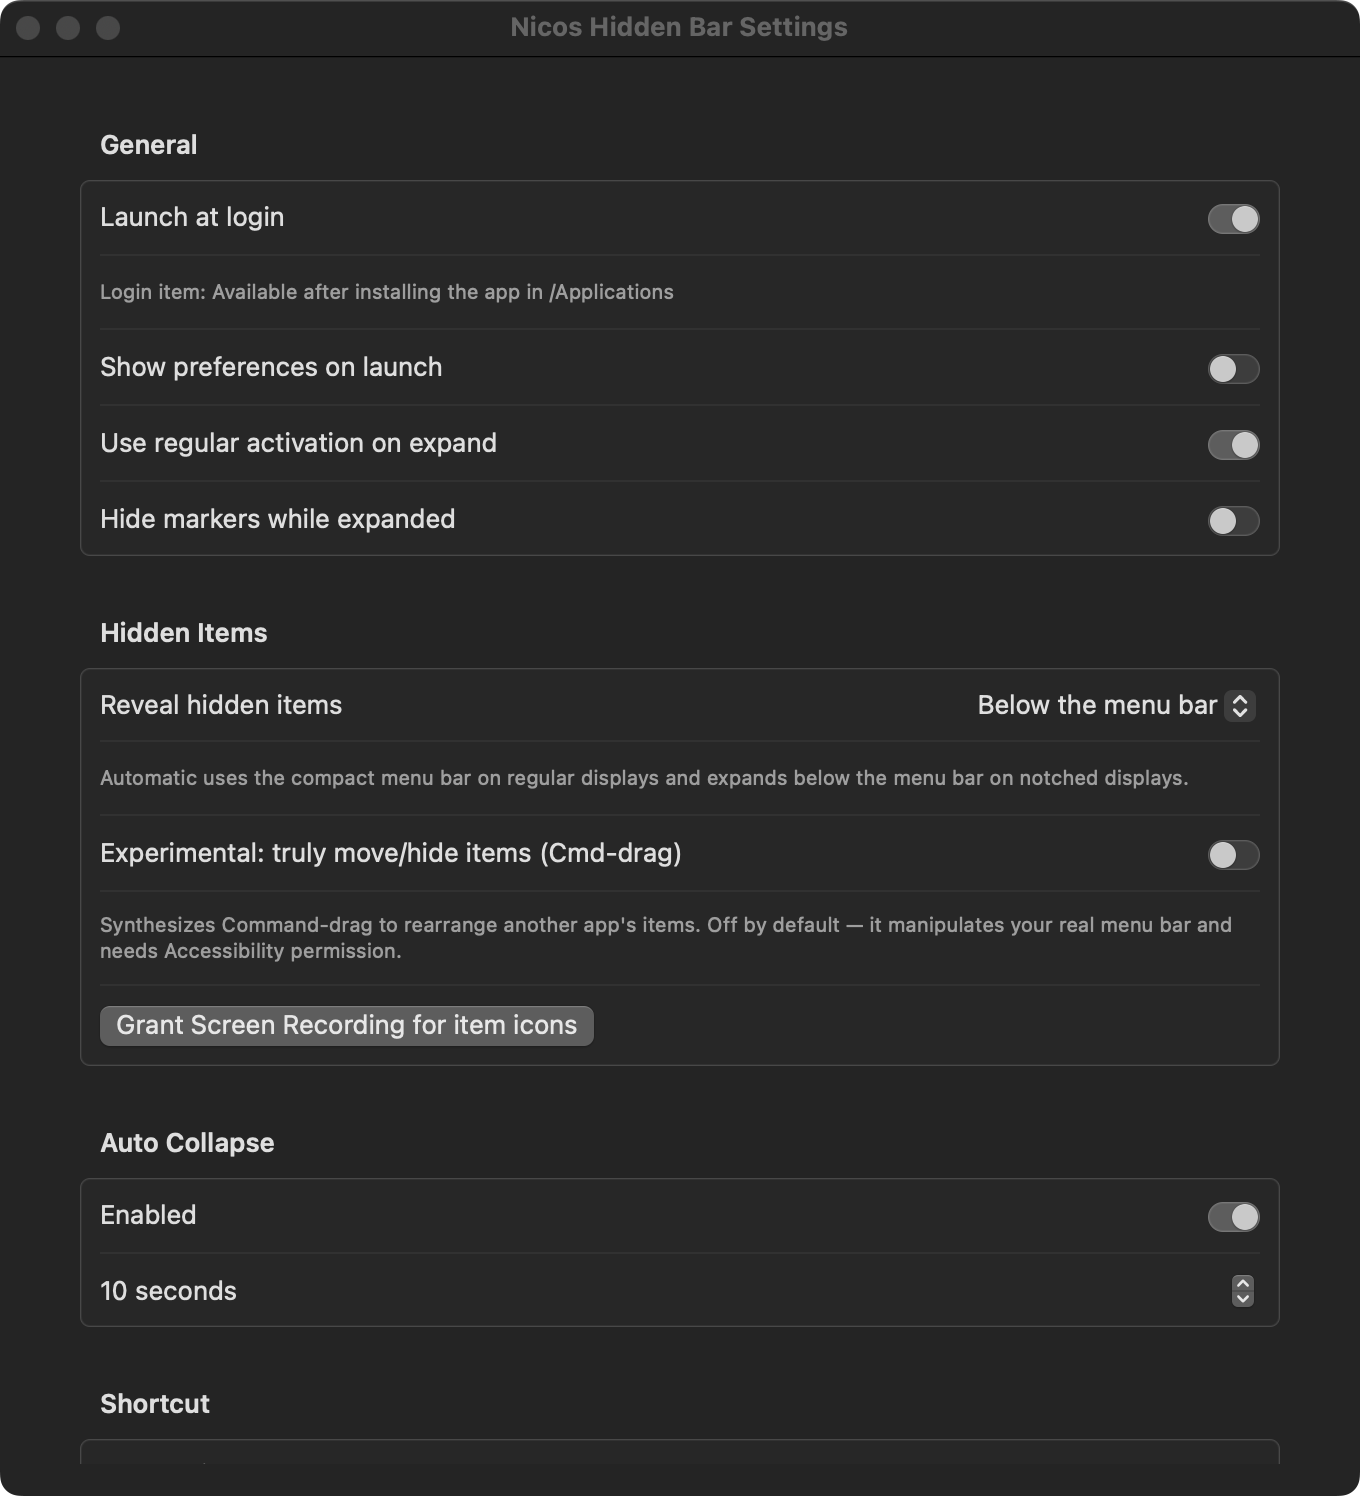
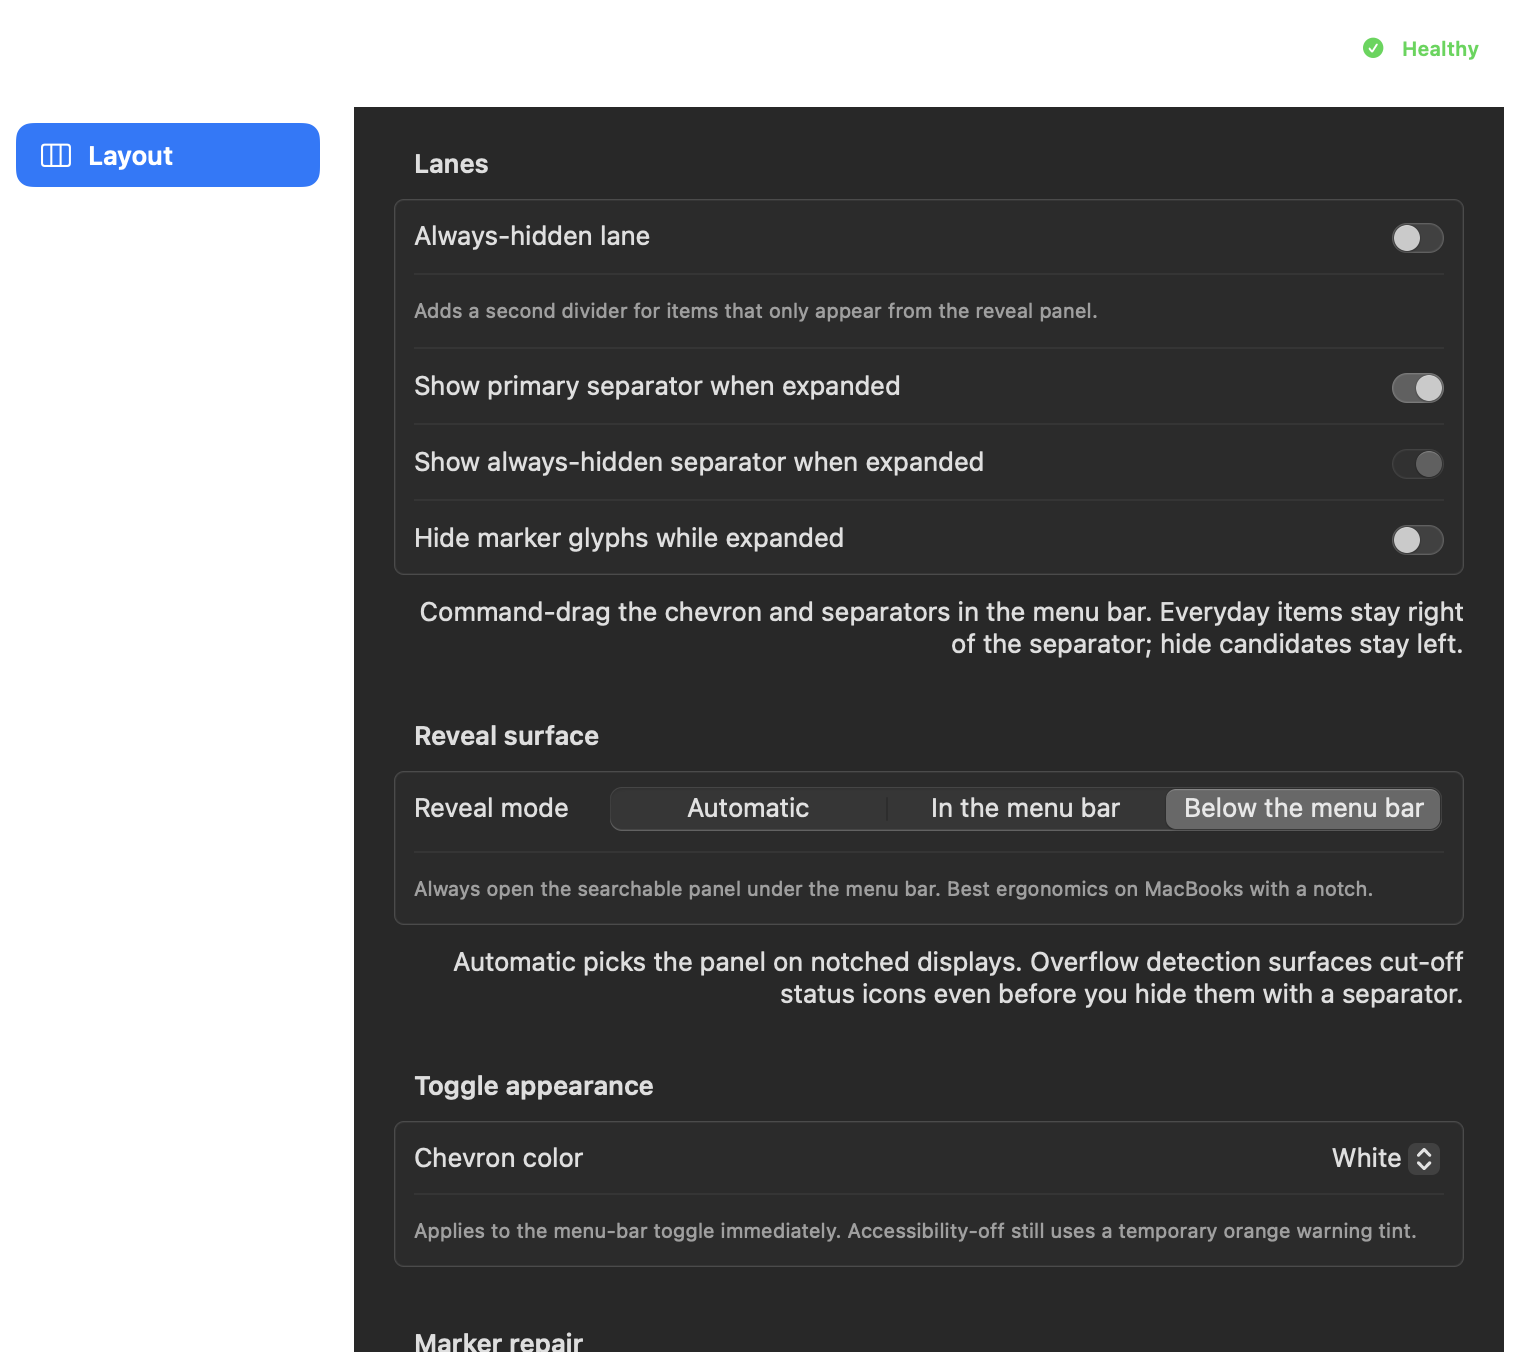
chore(hidden-bar): prepare sanitized public source

diff --git a/scripts/spec_evidence.go b/scripts/spec_evidence.go
@@ -314,11 +314,17 @@ var localCloseoutReceiptRel = filepath.Join(
 	"docs", "initiatives", "v0.2-production-hardening", "receipts", "LOCAL-20260731.json",
 )
 
-var forbiddenReceiptIdentity = []string{
-	"developer@example.invalid",
-	"Apple Development:",
-	"ABCDEFGHIJ",
-}
+var (
+	forbiddenReceiptIdentity = []string{
+		"Apple Development:",
+	}
+	signingAuthorityEmailPattern = regexp.MustCompile(
+		`(?i)"signing_authority"\s*:\s*"[^"]*@[^"]*"`,
+	)
+	signingAuthorityTeamPattern = regexp.MustCompile(
+		`(?i)"signing_authority"\s*:\s*"[^"]*\([A-Z0-9]{10}\)[^"]*"`,
+	)
+)
 
 func validateLocalCloseoutReceipt(root string) []string {
 	path := filepath.Join(root, localCloseoutReceiptRel)
@@ -336,6 +342,12 @@ func receiptIdentityProblems(label string, body []byte) []string {
 		if strings.Contains(text, token) {
 			problems = append(problems, fmt.Sprintf("%s contains redacted identity token %q", label, token))
 		}
+	}
+	if signingAuthorityEmailPattern.Match(body) {
+		problems = append(problems, fmt.Sprintf("%s contains an unredacted signing-authority email", label))
+	}
+	if signingAuthorityTeamPattern.Match(body) {
+		problems = append(problems, fmt.Sprintf("%s contains an unredacted signing-authority team identifier", label))
 	}
 	return problems
 }

diff --git a/scripts/spec_evidence_test.go b/scripts/spec_evidence_test.go
@@ -101,7 +101,7 @@ func TestImplementedAndShippedProof(t *testing.T) {
 func TestReceiptIdentityProblemsRejectsPersonalSigningIdentity(t *testing.T) {
 	dirty := []byte(`{"signing_authority":"Apple Development: developer@example.invalid (ABCDEFGHIJ)"}`)
 	problems := receiptIdentityProblems("receipt.json", dirty)
-	if !containsProblem(problems, "developer@example.invalid") || !containsProblem(problems, "Apple Development:") || !containsProblem(problems, "ABCDEFGHIJ") {
+	if !containsProblem(problems, "Apple Development:") || !containsProblem(problems, "signing-authority email") || !containsProblem(problems, "team identifier") {
 		t.Fatalf("dirty receipt was not fully rejected: %v", problems)
 	}
 

diff --git a/README.md b/README.md
@@ -11,7 +11,7 @@ with a compact chevron in the menu bar to reveal or collapse them. A searchable
 floating panel provides a notch-safe way to reach hidden items on modern
 MacBooks.
 
-![Nicos Hidden Bar settings showing reveal, permission, auto-collapse, and shortcut controls](docs/assets/preferences-window.png)
+![Nicos Hidden Bar settings: Layout tab with lanes, reveal mode, and chevron color](docs/assets/preferences-window.png)
 
 ## Highlights
 
@@ -47,11 +47,6 @@ make install
 available (Apple Development from your keychain so Accessibility survives
 rebuilds). Ad-hoc is only the fallback when no cert is found. Install path:
 `/Applications/NicosHiddenMenuBar.app`.
-
-The install path retires the pre-0.2 `NicosDev` launch agent and exact legacy
-process, archiving its launch-agent plist under
-`~/.config/nicos-hidden-menubar/legacy-launch-agents/`; the old app bundle is
-left in place as a rollback artifact.
 
 ```bash
 make install-stable   # first time / after ad-hoc: reset AX TCC + open Privacy
@@ -140,10 +135,10 @@ The headless smoke opens and captures the real settings window off-screen while
 asserting that the app never steals focus. Reports and screenshots are written
 under `.local/headless-smoke/` and are ignored by Git.
 
-Local verification (2026-07-29): `swift test` reports **162** package tests green.
+Local verification (2026-08-12): `swift test` reports **162** package tests green.
 Run `make verify-publication && make headless-smoke` before release. The
 reviewed repository screenshot above is copied from that smoke output and
-contains no account, menu-bar, configuration, or other private user data.
+contains no account, menu-bar, or other private user data.
 `make release-artifact` additionally creates a versioned ZIP, SHA-256 digest,
 and provenance receipt under `.local/release/`; the receipt remains explicitly
 not distribution-ready until Developer ID signing and notarization are present.
@@ -181,3 +176,5 @@ Nicos Hidden Bar is released under the GNU General Public License v3.0. Parts of
 its menu-bar discovery and movement design are adapted from
 [Ice](https://github.com/jordanbaird/Ice), also GPL-3.0. See [NOTICE](NOTICE) for
 attribution and [LICENSE](LICENSE) for the complete terms.
+
+Security reporting: [SECURITY.md](SECURITY.md). Changes: [CHANGELOG.md](CHANGELOG.md).

diff --git a/docs/PUBLICATION_READINESS.md b/docs/PUBLICATION_READINESS.md
@@ -57,11 +57,31 @@ Reviewed: 2026-08-12
 
 ## Human-gated publication steps
 
-These steps remain human-only. `github.com/nstranquist/nicos-hidden-menubar`
-is not live. This checklist does not create, push, or flip that repository.
+`github.com/nstranquist/nicos-hidden-menubar` is not live. This checklist does
+not create, push, or flip that repository.
 
-1. Review the final GitHub rendering of README and screenshot.
-2. Create and push the public repository under `github.com/nstranquist`.
+1. **Done 2026-08-12.** Reviewed README, brand SVG, and screenshot as a
+   signed-out visitor would see them.
+   - Replaced the committed settings image with a current Layout-tab capture
+     from `make headless-smoke` (no personal menu-bar, account, or email).
+   - README clone URL, Ice attribution, LICENSE/NOTICE/SECURITY/CHANGELOG
+     links, and screenshot alt text now match the current UI.
+   - Removed the operator-only `NicosDev` launch-agent note from the README.
+   - Remaining known limit: git history still contains the redacted Apple
+     Development identity in an earlier commit. No history rewrite.
+2. **Create and push** the public repository. Exact local command, not run:
+   ```bash
+   cd ~/tools/nicos-hidden-menubar
+   gh repo create nstranquist/nicos-hidden-menubar \
+     --public \
+     --description "Native macOS menu-bar organizer with notch-safe hide/reveal. Local-first, GPL-3.0." \
+     --disable-wiki
+   git push -u origin main
+   gh repo edit nstranquist/nicos-hidden-menubar \
+     --add-topic macos --add-topic swift --add-topic menubar \
+     --add-topic gpl --add-topic local-first --add-topic oss
+   ```
+   Origin is already `git@github.com:nstranquist/nicos-hidden-menubar.git`.
 3. Confirm the already-defined public CI passes `make verify-publication`.
 4. Complete a signed-out repository review before pinning it.
 

diff --git a/docs/CASE_STUDY.md b/docs/CASE_STUDY.md
@@ -41,7 +41,8 @@ and a native smoke that opens and captures the real settings window without
 stealing focus. Three live cycles on the built-in notched display each verified
 eight hidden-lane items removed while two standalone third-party items and two
 system items remained visible. The reviewed screenshot is committed at
-`docs/assets/preferences-window.png`. The ready-to-run GitHub Actions workflow
+`docs/assets/preferences-window.png` (current Layout tab; no personal menu-bar
+or account data). The ready-to-run GitHub Actions workflow
 executes the same publication boundary on macOS; it is local evidence until a
 public run exists.
 
